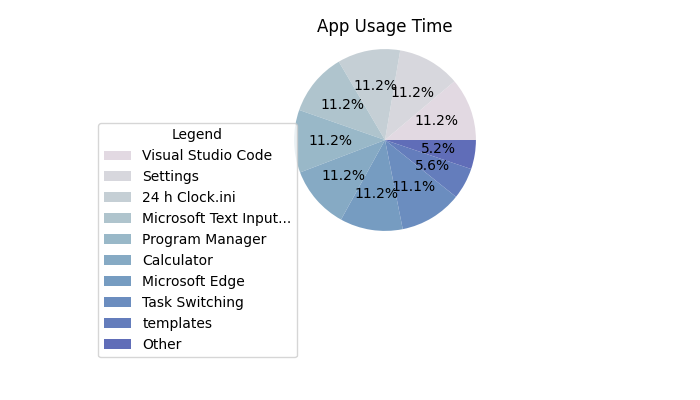
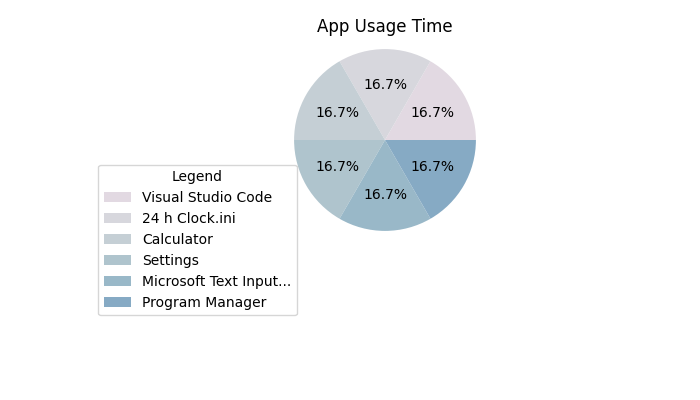
MASSIVE BUGFIX
Patched an omnipresent and extremely difficult bug wherein the app-time calculations would add additional time to the running programs if the python script for appreader_remake_testing was shut down, calculating from the original starting time. Next step is to fix and improve the daily time data dashboard as it currently only displays the basic checklist. Could further expand this into a weekly time data segment to be used in page 1.

Changed region(s): [[0.42, 0.18, 0.69, 0.6], [0.15, 0.3, 0.42, 0.69], [0.15, 0.69, 0.42, 0.9]]

diff --git a/templates/Page_2.html b/templates/Page_2.html
@@ -127,7 +127,7 @@
                 {{ form.csrf_token }}
                 <p>
                     {{ form.Task.label }}
-                    {{ form.Task(size=20) }}
+                    {{ form.Task(cols=20) }}
                 </p>
                 {% if form.Task.errors %}
                     <ul class="errors">

diff --git a/AppReader_Remake_Testing.py b/AppReader_Remake_Testing.py
@@ -21,14 +21,13 @@ class AppReader():
         self.appsrunning = []
         self.apptime = {}
         self.appslist = {}
+        self.endingtime = 0
 
     def AppNameEdit(self):
-        #Add another name editor for app names that are part of the same action but have different names
-        #e.g. mozilla firefox - new tab, and mozilla firefox - stackoverflow, should become the same name
-        modified_apps = []  # Initialize a new list for modified titles
+        modified_apps = []
         for x in self.appsrunning:
             titletest = x
-            if titletest in ["", " ", "    ", " - "]:  # Simplified check for empty or specific strings
+            if titletest in ["", " ", "    ", " - "]:
                 titletest = "UNKNOWN APP"
             if " - " in titletest:
                 thetitletest = titletest.split(" - ")
@@ -43,9 +42,9 @@ class AppReader():
                 titletest = thetitletest[-1]
             if titletest[0] == " ":
                 titletest = titletest[1:]
-            modified_apps.append(titletest)  # Append the modified title to the new list
+            modified_apps.append(titletest)
         self.appsrunning.clear()
-        self.appsrunning = modified_apps  # Replace the original list with the modified list
+        self.appsrunning = modified_apps
     
     def AppRunning(self):
         self.appsrunning.extend([window.title for window in pyautogui.getAllWindows()])
@@ -54,47 +53,54 @@ class AppReader():
         self.appsrunning = [x for x in self.appsrunning if not (x in seen or seen.add(x))]
     
     def UpdateRunningApps(self):
-        # Fetch the current list of running apps
         current_running_apps = [window.title for window in pyautogui.getAllWindows()]
         current_running_apps = [x for x in current_running_apps if x.strip() and x != ""]
-
-        # Filter out apps that are no longer running from self.appsrunning
-        # Do not modify self.apptime here to ensure time persists
         self.appsrunning = [app for app in self.appsrunning if app in current_running_apps]
 
     def AppTimer(self):
-        current_time = round(time.time())  # Ensure current_time is rounded at the source
+        current_time = round(time.time())
         for app in self.appsrunning:
             if app in self.apptime:
-                # Validate appchoose is a dictionary and has 'cur_time'
                 if isinstance(self.apptime[app], dict) and 'cur_time' in self.apptime[app]:
                     appchoose = self.apptime[app]
-                    # Ensure elapsed_time is rounded immediately after calculation
                     elapsed_times = int(round(current_time - appchoose['cur_time']))
                     elapsed_time = round(elapsed_times, 0)
-                    self.apptime[app]['elapsed'] = elapsed_time  # Convert to int to ensure compatibility
+                    self.apptime[app]['elapsed'] += elapsed_time
+                    self.apptime[app]['cur_time'] = current_time
                 else:
                     print(f"Error: appchoose for {app} is not properly formatted. Current value: {self.apptime[app]}")
             else:
-                # For new apps, ensure 'cur_time' is rounded before being set
-                self.apptime[app] = {'cur_time': round(current_time, 0), 'elapsed': 0}  # current_time is already rounded
-                
-    def AppRelease(self):
-        #Sorting algorith here - descending order
-        self.apptime = dict(sorted(self.apptime.items(), key=lambda x: x[1]['elapsed'], reverse=True))
+                self.apptime[app] = {'cur_time': current_time, 'elapsed': 0}
 
-        for app_name, time in self.apptime.items():
-            # Update the time for the app in self.appslist
-            self.appslist[app_name] = (f"{time['elapsed']} seconds")
+    def reset_timer(self):
+        with open(f"{truepath}\\SequentialEndingTime.json", "r") as f:
+            endingtime = f.read()
+            endingtime = json.loads(endingtime)
         
+        ending_time = endingtime["end_time"]
+        self.endingtime = ending_time
+
+    def start_session(self):
+        self.reset_timer(AppReader)
+        current_time = round(time.time())
+        time_diff = current_time - self.endingtime
+        for app in self.apptime:
+            if 'elapsed' in self.apptime[app]:
+                self.apptime[app]['elapsed'] += time_diff
+            else:
+                self.apptime[app]['elapsed'] = time_diff
+            self.apptime[app]['cur_time'] = current_time
+
+    def AppRelease(self):
+        self.apptime = dict(sorted(self.apptime.items(), key=lambda x: x[1]['elapsed'], reverse=True))
+        for app_name, time in self.apptime.items():
+            self.appslist[app_name] = (f"{time['elapsed']} seconds")
 
 def update_graph(timedisplay):
     fig1, ax1 = plt.subplots(figsize=(7,4))
     try:
         ax1.clear()
-        smalllist = {}
         smalllist = AppReader.appslist
-        #If there are more than 15 apps, only display the top 15
         if len(smalllist) > 25:
             smalllist = dict(list(smalllist.items())[:25])
         app_names = list(smalllist.keys())
@@ -160,9 +166,7 @@ def piechart():
     fig2, ax2 = plt.subplots(figsize=(7,4))
     try:
         ax2.clear()
-        smalllist = {}
         smalllist = AppReader.appslist
-        #If there are more than 10 apps, only display the top 10
         if len(smalllist) > 10:
             otherlist = dict(list(smalllist.items())[9:])
             otherlist = [int(round(float(time.split(" ")[0]), 0)) for time in otherlist.values()]
@@ -171,11 +175,8 @@ def piechart():
                 totalsum += otherlist[i]
             smalllist = dict(list(smalllist.items())[:9])
             smalllist["Other"] = f"{totalsum} seconds"
-        #Sort smalllist from largest to smallest value
         smalllist = dict(sorted(smalllist.items(), key=lambda x: int(round(float(x[1].split(" ")[0]), 0)), reverse=True))
         
-            
-                        
         app_names = list(smalllist.keys())
         total = 0
         for i in (smalllist.values()):
@@ -207,8 +208,6 @@ def piechart():
         time.sleep(2)
         pass
 
-#Recommended next avenue is to add alternative graph methods such as time based records e.g. previous day, week, month, year.
-    
 def scan():
     while True:
         AppReader.AppRunning(AppReader)
@@ -217,26 +216,42 @@ def scan():
         AppReader.AppTimer(AppReader)
         AppReader.AppRelease(AppReader)
 
-#Update json and store json need to be edited to account for apptime library changes
 def UpdateJson(apptime, path):
-    with open (f"{path}", "w") as f:
+    with open(f"{path}", "w") as f:
         json.dump(apptime, f)
-    
-        
-AppReader.__init__(AppReader)
 
-#Load the previously stored json data
+AppReader.__init__(AppReader)
+AppReader.AppRunning(AppReader)
+AppReader.UpdateRunningApps(AppReader)
+AppReader.AppNameEdit(AppReader)
+AppReader.start_session(AppReader)
+AppReader.AppTimer(AppReader)
+AppReader.AppRelease(AppReader)
+
 try:
-    with open(f"{path}", "r") as f:
+    with open (f"{path}", "r") as f:
         appnamelist = json.load(f)
-        AppReader.appsrunning = list(appnamelist.keys())
-        AppReader.apptime.update(dict(appnamelist))
-        AppReader.apptime = appnamelist
+    timelist = list(appnamelist.values())
+    valuelist = []
+    for value in timelist:
+        values = value["elapsed"]
+        values = int(values)
+        valuelist.append(values)
+    x=0
+    for app in appnamelist:
+        appnamelist[app].update({"cur_time": (round(time.time())), "elapsed": valuelist[x]})
+        x+=1
+
+    AppReader.appsrunning = list(appnamelist.keys())
+    AppReader.apptime.update(dict(appnamelist))
+    AppReader.apptime = appnamelist
         
-except:
+except Exception as e:
+    print(f"Data Error:\n")
+    print(f'{e}')
     pass
+
 thread = threading.Thread(target=scan)
-    
 thread.start()
 
 time.sleep(5)
@@ -245,4 +260,6 @@ while True:
     piechart()
     UpdateJson(AppReader.apptime, path)
     time.sleep(0.5)
-    
+    ending_time = int(round(time.time(), 0))
+    with open(f"{truepath}/SequentialEndingTime.json", "w") as f:
+        json.dump({"end_time": ending_time}, f)

diff --git a/Learning Flask.py b/Learning Flask.py
@@ -18,8 +18,8 @@ app = Flask(__name__)
 app.config['SECRET_KEY'] = 'the key oooh'
 
 class TaskForm(FlaskForm): 
-    Task = StringField('Name', validators=[InputRequired()])
-    TaskDesc = TextAreaField('Description', validators=[InputRequired(), Length(max=100)])
+    Task = StringField('Name', validators=[InputRequired(), Length(max=50)])
+    TaskDesc = TextAreaField('Description', validators=[InputRequired(), Length(max=200)])
 
     
 
